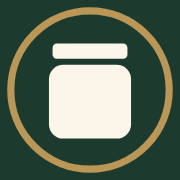
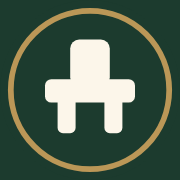
Replace the SEAT mark with a chair inside the gold ring.

diff --git a/site/src/components/Wordmark.tsx b/site/src/components/Wordmark.tsx
@@ -1,17 +1,28 @@
 type Tone = "inherit" | "dark" | "light" | "badge";
 
 /**
- * Official SEAT mark: a seat (lid over a rounded body) inside a gold ring.
+ * Official SEAT mark: a chair inside a gold ring.
+ * The ring is the desk. The chair is the seat you take.
  * `inherit` follows the surrounding ink (cream on the dark site, forest on paper).
  */
+function Chair({ fill }: { fill: string }) {
+  return (
+    <g fill={fill}>
+      <rect x="39" y="22" width="22" height="26" rx="5" />
+      <rect x="25" y="44" width="50" height="13" rx="3.5" />
+      <rect x="32" y="54" width="10" height="20" rx="3" />
+      <rect x="58" y="54" width="10" height="20" rx="3" />
+    </g>
+  );
+}
+
 export function Mark({ size = 26, tone = "inherit" }: { size?: number; tone?: Tone }) {
   if (tone === "badge") {
     return (
       <svg width={size} height={size} viewBox="0 0 100 100" aria-hidden="true" focusable="false">
         <circle cx="50" cy="50" r="48.6" fill="none" stroke="var(--brand-gold)" strokeWidth="1.4" />
         <circle cx="50" cy="50" r="45.5" fill="var(--brand-green)" />
-        <rect x="31.5" y="27" width="37" height="8.6" rx="4.3" fill="none" stroke="var(--brand-cream)" strokeWidth="4.2" />
-        <rect x="31.5" y="41.5" width="37" height="32" rx="6.5" fill="none" stroke="var(--brand-cream)" strokeWidth="4.2" />
+        <Chair fill="var(--brand-cream)" />
       </svg>
     );
   }
@@ -20,8 +31,7 @@ export function Mark({ size = 26, tone = "inherit" }: { size?: number; tone?: To
   return (
     <svg width={size} height={size} viewBox="0 0 100 100" aria-hidden="true" focusable="false">
       <circle cx="50" cy="50" r="46" fill="none" stroke="var(--brand-gold)" strokeWidth="3.2" />
-      <rect x="29.2" y="24.2" width="41.6" height="6.9" rx="1.6" fill={glyph} />
-      <rect x="27.2" y="33.3" width="45.6" height="43.6" rx="7.3" fill={glyph} />
+      <Chair fill={glyph} />
     </svg>
   );
 }
